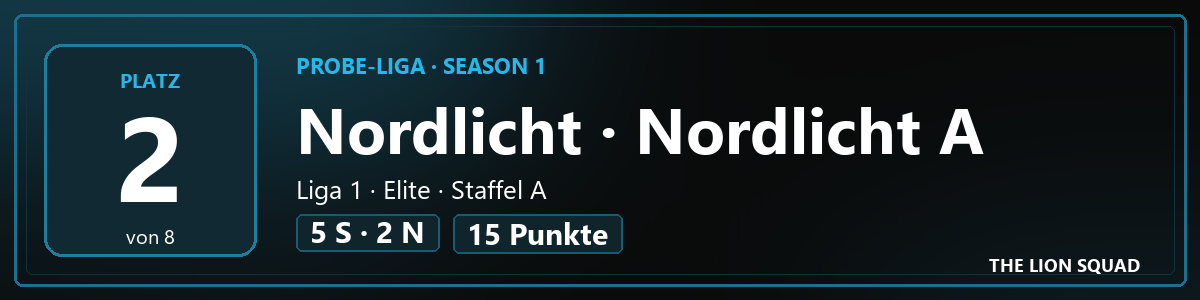
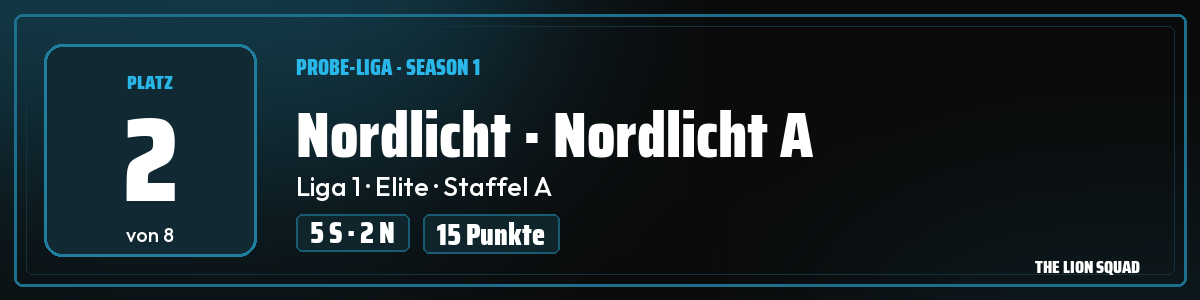
feat: Teilen-Bilder und Rankingbanner mit den Lionsquad-Schriften (#2435)
share_image.font lädt die Schriften aus static/fonts: Überschriften, Namen
und Zahlen in Saira Condensed Black, Text in Outfit (Mittel). Fehlt eine
Datei oder lässt sie sich nicht laden, gilt DejaVu bzw. die Schrift des
Rechners. Enthält ein Text ein Zeichen außerhalb des lateinischen
Zeichensatzes, misst und zeichnet ihn die Ersatzschrift - nie ein Kästchen.
Gilt für Erfolg, Belohnung, Ergebnis, Bracket-Bild und Rankingbanner;
Bildgrößen bleiben. Handbuch-Bild des Rankingbanners neu erzeugt.

diff --git a/backend/services/share_image.py b/backend/services/share_image.py
@@ -1,7 +1,8 @@
 """Der gemeinsame Bild-Baustein für Teilen-Bilder (#1194): Erfolge (#619), Turnier-Ergebnisse (#1194), der
 Jahresrückblick (#1195) und das Vorschaubild mit Datum und Ort (#1281) zeichnen mit denselben Werkzeugen.
 
-Serverseitig mit Pillow, ohne Browser: Schriften (DejaVu im Container, sonst die des Rechners), Farben, Umbruch,
+Serverseitig mit Pillow, ohne Browser: Schriften (die Lionsquad-Schriften aus ``static/fonts``, #2435 - Saira Condensed
+für Überschriften und Zahlen, Outfit für Text; fehlt eine Datei oder ein Zeichen, DejaVu bzw. die des Rechners), Farben, Umbruch,
 Kürzen mit „…“, Sterne als Polygon (nicht jede Schrift hat ein ★), dunkler Grund mit Schein in der Akzentfarbe,
 doppelter Rahmen und die Ausgabe als PNG. Zwei Formate: breit (1200×630, Link-Vorschau) und hoch (1080×1920,
 WhatsApp-Status und Instagram-Story).
@@ -40,12 +41,102 @@ FONT_REGULAR_CANDIDATES = (
     "C:/Windows/Fonts/arial.ttf",
     "/System/Library/Fonts/Supplemental/Arial.ttf",
 )
+# Die Lionsquad-Schriften (#2435) - dieselben Dateien wie die Website und die Shop-Bilder (services/shop_gamertag.py), SIL Open
+# Font License. ``bold``: Überschriften, Namen, Zahlen und Kennzeichen in Saira Condensed Black (schmal, sportlich - Unbounded
+# wäre für Namen und Kacheln zu breit); sonst Text in Outfit (Mittel). Lokal und in Produktion dieselbe Schrift.
+BRAND_FONT_DIR = os.path.join(os.path.dirname(os.path.dirname(__file__)), "static", "fonts")
+BRAND_FONTS = {
+    True: {"file": "saira-condensed-latin-900.woff2", "weight": None},
+    False: {"file": "outfit-latin-wght.woff2", "weight": 500},
+}
+# Ein Zeichen, das keine der Schriften hat - sein Bild ist das „fehlt“-Kästchen, mit dem jedes andere Zeichen verglichen wird.
+_MISSING_PROBE = "\ue000"
+_PROBE_SIZE = 64
 # Platz 1–3 in den Farben der Medaillen, alles darunter weiß.
 RANK_COLORS = {1: GOLD, 2: "#D9DEE5", 3: "#E0A06A"}
 
 
+@lru_cache(maxsize=4)
+def _brand_bytes(file_name: str) -> bytes | None:
+    try:
+        with open(os.path.join(BRAND_FONT_DIR, file_name), "rb") as handle:
+            return handle.read()
+    except OSError:
+        return None
+
+
+def _glyph_print(probe: ImageFont.FreeTypeFont, char: str) -> tuple:
+    box = ImageFont.FreeTypeFont.getbbox(probe, char)
+    image = Image.new("L", (max(1, box[2]) + 2, max(1, box[3]) + 2))
+    ImageDraw.Draw(image).text((0, 0), char, font=probe, fill=255)
+    return box, ImageFont.FreeTypeFont.getlength(probe, char), image.tobytes()
+
+
+@lru_cache(maxsize=4)
+def _probe(bold: bool) -> tuple[ImageFont.FreeTypeFont, tuple] | None:
+    data = _brand_bytes(BRAND_FONTS[bold]["file"])
+    if data is None:
+        return None
+    try:
+        probe = ImageFont.FreeTypeFont(io.BytesIO(data), _PROBE_SIZE)
+    except OSError:
+        return None
+    return probe, _glyph_print(probe, _MISSING_PROBE)
+
+
+@lru_cache(maxsize=2048)
+def has_glyph(bold: bool, char: str) -> bool:
+    """Hat die Lionsquad-Schrift dieses Zeichen? Die Dateien tragen nur den lateinischen Zeichensatz (mit Umlauten und ß) - ein
+    Zeichen aus Osteuropa, Kyrillisch oder ein Symbol fehlt. Erkannt am Bild: Ein fehlendes Zeichen sieht aus wie das
+    „fehlt“-Kästchen."""
+    if char.isspace():
+        return True
+    found = _probe(bold)
+    if found is None:
+        return False
+    probe, missing = found
+    return _glyph_print(probe, char) != missing
+
+
+class BrandFont(ImageFont.FreeTypeFont):
+    """Eine Lionsquad-Schrift mit sauberem Ersatz (#2435): Enthält ein Text ein Zeichen, das sie nicht hat, misst und zeichnet ihn
+    die Ersatzschrift (DejaVu bzw. die des Rechners) - ganz, nie gemischt, und nie als Kästchen. Messen (``textlength``,
+    ``textbbox``) und Zeichnen gehen über dieselbe Wahl, darum passen Umbruch und Kürzen weiter."""
+
+    def __init__(self, data: bytes, size: int, *, bold: bool, weight: int | None, fallback: ImageFont.ImageFont):
+        super().__init__(io.BytesIO(data), size)
+        if weight:
+            self.set_variation_by_axes([weight])
+        self.bold = bold
+        self.fallback = fallback
+
+    def covers(self, text) -> bool:
+        return all(has_glyph(self.bold, char) for char in set(str(text or "")))
+
+    def getbbox(self, text, *args, **kwargs):
+        if self.covers(text):
+            return super().getbbox(text, *args, **kwargs)
+        return self.fallback.getbbox(text, *args, **kwargs)
+
+    def getlength(self, text, *args, **kwargs):
+        if self.covers(text):
+            return super().getlength(text, *args, **kwargs)
+        return self.fallback.getlength(text, *args, **kwargs)
+
+    def getmask(self, text, *args, **kwargs):
+        if self.covers(text):
+            return super().getmask(text, *args, **kwargs)
+        return self.fallback.getmask(text, *args, **kwargs)
+
+    def getmask2(self, text, *args, **kwargs):
+        if self.covers(text):
+            return super().getmask2(text, *args, **kwargs)
+        return self.fallback.getmask2(text, *args, **kwargs)
+
+
 @lru_cache(maxsize=48)
-def font(size: int, bold: bool = True) -> ImageFont.ImageFont:
+def system_font(size: int, bold: bool = True) -> ImageFont.ImageFont:
+    """Die Ersatzschrift: DejaVu im Container, sonst die des Rechners, zuletzt die eingebaute von Pillow."""
     for path in (FONT_CANDIDATES if bold else FONT_REGULAR_CANDIDATES):
         if os.path.exists(path):
             try:
@@ -56,6 +147,21 @@ def font(size: int, bold: bool = True) -> ImageFont.ImageFont:
         return ImageFont.load_default(size=size)
     except TypeError:  # sehr altes Pillow
         return ImageFont.load_default()
+
+
+@lru_cache(maxsize=48)
+def font(size: int, bold: bool = True) -> ImageFont.ImageFont:
+    """Die Schrift aller Teilen-Bilder und des Rankingbanners (#2435): die Lionsquad-Schrift, mit Ersatz je Text. Fehlt die
+    Datei oder lässt sie sich nicht laden, gilt die Ersatzschrift allein - das Bild entsteht trotzdem."""
+    fallback = system_font(size, bold)
+    spec = BRAND_FONTS[bool(bold)]
+    data = _brand_bytes(spec["file"])
+    if data is None:
+        return fallback
+    try:
+        return BrandFont(data, size, bold=bool(bold), weight=spec["weight"], fallback=fallback)
+    except OSError:
+        return fallback
 
 
 def hex_color(color: str | None, alpha: int = 255, fallback: str = "FFD700") -> tuple:

diff --git a/backend/tests/test_share_image_fonts_unit.py b/backend/tests/test_share_image_fonts_unit.py
@@ -1,0 +1,90 @@
+"""Teilen-Bilder und Rankingbanner mit den Lionsquad-Schriften (#2435): Saira Condensed für Überschriften und Zahlen, Outfit für
+Text - aus ``static/fonts``, lokal und in Produktion dieselben. Fehlt eine Datei oder ein Zeichen, greift sauber der Ersatz. Die
+Bildgrößen bleiben."""
+import io
+import pathlib
+import sys
+
+import pytest
+from PIL import Image, ImageDraw
+
+sys.path.insert(0, str(pathlib.Path(__file__).resolve().parents[1]))
+
+from services import achievement_share, league_rank_banner, result_share, reward_share, share_image  # noqa: E402
+
+
+def _clear_caches():
+    for cached in (share_image.font, share_image.system_font, share_image._brand_bytes, share_image._probe, share_image.has_glyph):
+        cached.cache_clear()
+
+
+@pytest.fixture(autouse=True)
+def fresh_fonts():
+    _clear_caches()
+    yield
+    _clear_caches()
+
+
+def test_headings_use_saira_condensed_and_text_uses_outfit():
+    heading = share_image.font(40)
+    text = share_image.font(28, bold=False)
+    assert isinstance(heading, share_image.BrandFont) and heading.getname()[0].startswith("Saira Condensed")
+    assert isinstance(text, share_image.BrandFont) and text.getname()[0].startswith("Outfit")
+    thin = share_image.ImageFont.FreeTypeFont(io.BytesIO(share_image._brand_bytes("outfit-latin-wght.woff2")), 28)
+    assert text.getlength("Spielmacher") > thin.getlength("Spielmacher"), "Outfit in Mittel, nicht die dünne Grundform"
+    assert share_image.font(40) is heading, "je Größe einmal geladen"
+
+
+def test_latin_with_umlauts_is_covered_other_scripts_are_not():
+    for char in "Aäöüß€–·…„“":
+        assert share_image.has_glyph(True, char) and share_image.has_glyph(False, char), char
+    for char in ("č", "ł", "Ж", "★"):  # č, ł, Ж, ★
+        assert not share_image.has_glyph(True, char), char
+        assert not share_image.has_glyph(False, char), char
+
+
+def test_a_text_with_a_missing_character_is_measured_and_drawn_by_the_fallback():
+    brand = share_image.font(36)
+    name = "Łukasz Čapek"  # Łukasz Čapek
+    assert not brand.covers(name)
+    assert brand.getlength(name) == brand.fallback.getlength(name)
+    assert brand.getbbox(name) == brand.fallback.getbbox(name)
+    assert brand.covers("Anna Beispiel") and brand.getlength("Anna Beispiel") != brand.fallback.getlength("Anna Beispiel")
+    image = Image.new("L", (400, 60))
+    ImageDraw.Draw(image).text((0, 0), name, font=brand, fill=255)
+    assert image.getbbox(), "der Name ist zu sehen"
+
+
+def test_a_missing_font_file_falls_back_and_the_images_still_render(monkeypatch, tmp_path):
+    monkeypatch.setattr(share_image, "BRAND_FONT_DIR", str(tmp_path))
+    _clear_caches()
+    fallback = share_image.font(40)
+    assert not isinstance(fallback, share_image.BrandFont)
+    assert fallback is share_image.system_font(40, True)
+    png = league_rank_banner.render({"rank": 2, "teams": 8, "team": "Nordlicht A", "record": {"played": 3, "won": 2, "lost": 1, "points": 6}})
+    assert Image.open(io.BytesIO(png)).size == (league_rank_banner.WIDTH, league_rank_banner.HEIGHT)
+
+
+def test_a_broken_font_file_falls_back(monkeypatch, tmp_path):
+    for spec in share_image.BRAND_FONTS.values():
+        (tmp_path / spec["file"]).write_bytes(b"keine Schrift")
+    monkeypatch.setattr(share_image, "BRAND_FONT_DIR", str(tmp_path))
+    _clear_caches()
+    assert not isinstance(share_image.font(30, bold=False), share_image.BrandFont)
+    assert share_image.has_glyph(False, "A") is False, "ohne ladbare Schrift gilt jedes Zeichen als fehlend - der Ersatz zeichnet"
+
+
+def _size(png: bytes) -> tuple[int, int]:
+    return Image.open(io.BytesIO(png)).size
+
+
+def test_image_sizes_stay_the_same():
+    assert _size(league_rank_banner.render({"rank": 1, "final": True, "teams": 8, "team": "Nordlicht A", "league": "Probe-Liga",
+                                            "season": "Season 1", "record": {"played": 7, "won": 5, "lost": 2, "points": 15}})) == (1200, 300)
+    assert _size(achievement_share.render_card({"name": "Spielmacher VII", "rank": 7, "material": "diamond", "material_color": "#B9F2FF",
+                                                "user": {"display_name": "Łukasz"}, "club_name": "THE LION SQUAD"})) == (1200, 630)
+    assert _size(reward_share.render_card({"kind": "medal", "metal": "gold", "place": "1.", "name": "Meister", "holder": "Nordlicht A"})) == (1200, 630)
+    result = {"tournament": {"title": "Herbst-Cup"}, "user": {"display_name": "Neonfalke"}, "rank": 1, "participant_count": 16,
+              "participant_word": "Spieler", "steps": [], "chips": ["Finale 3:2"], "club_name": "THE LION SQUAD", "domain": "lionsquad.at"}
+    assert _size(result_share.render(result, "story")) == share_image.STORY
+    assert _size(result_share.render(result, "wide")) == share_image.WIDE
